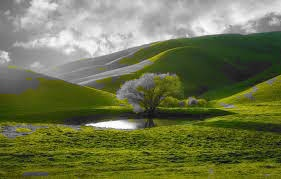
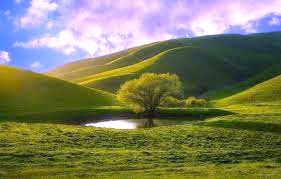
Color Balance Filter

diff --git a/templates/index.html b/templates/index.html
@@ -50,6 +50,7 @@
               <option value="hGreen">Highlight Green</option>
               <option value="hRed">Highlight Red</option>
               <option value="hBlue">Highlight Blue</option>
+              <option value="cb">Color Balance</option>
             </select>
             <label for="floatingSelect">Select an Editing Operation</label>
           </div>

diff --git a/app.py b/app.py
@@ -144,6 +144,21 @@ def highlightBlue(img):
 
     return added_img
 
+def balance_colors(image):
+    # Calculate the average intensity for each color channel
+    avg_intensity = np.mean(image, axis=(0, 1))
+
+    # Desired average intensity for each channel (adjust as needed)
+    target_intensity = np.array([128, 128, 128])
+
+    # Calculate the adjustment needed for each channel
+    adjustment = target_intensity / avg_intensity
+
+    # Apply the adjustment to each channel
+    balanced_image = np.clip(image * adjustment, 0, 255).astype(np.uint8)
+
+    return balanced_image
+
    
 
 def processImage(filename , operation):
@@ -158,6 +173,8 @@ def processImage(filename , operation):
         new_image = highlightGreen(image)
     elif operation == 'hBlue':
         new_image = highlightBlue(image)
+    elif operation == 'cb':
+        new_image = balance_colors(image)
     newFilePath = 'static/final/' + filename
     print(newFilePath)
     cv2.imwrite(newFilePath, new_image)
